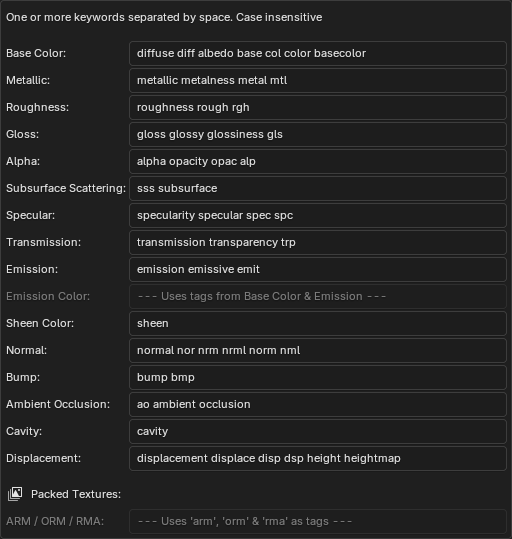
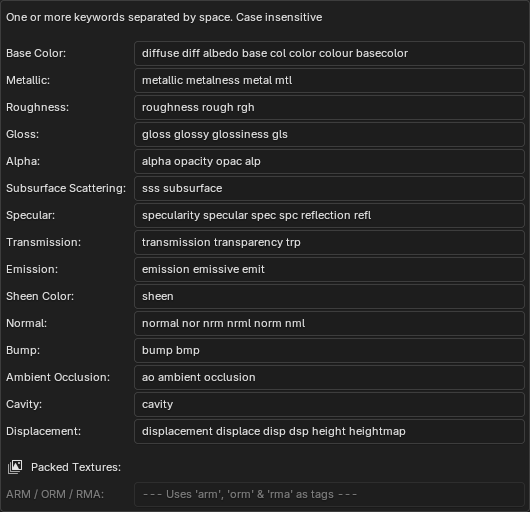
Misc

Changed region(s): [[0.0, 0.0, 1.0, 0.875], [0.3125, 0.9375, 0.625, 1.0], [0.0, 0.9062, 0.25, 1.0]]

diff --git a/docs/index.md b/docs/index.md
@@ -16,7 +16,7 @@ Welcome to BatchGenie, an add-on designed to simplify and automate common Asset 
 - **Texture Import**:
     - Blazingly fast imports.
     - Supports both Metallic/Roughness and Specular/Glossiness workflow.
-    - Supports for 16+ types of maps: Albedo, Metallic, Roughness, Gloss, Alpha, Subsurface Scattering, Specular, Transmission, Emission, Emission Color, Sheen Color, Normal, Bump, Ambient Occlusion, Cavity, Displacement, and PACKED & CUSTOM types.
+    - Supports for 16+ types of maps: Albedo, Metallic, Roughness, Gloss, Alpha, Subsurface Scattering, Specular, Transmission, Emission, Sheen Color, Normal, Bump, Ambient Occlusion, Cavity, Displacement, and PACKED & CUSTOM types.
         - Packed: ARM/ORM/RMA textures that combine AO, Roughness, and Metallic maps.
         - Custom: Import any map and connect it to your chosen input via a dropdown menu.
     - Automatically sets up all necessary nodes, including color space adjustments and other configurations for a smooth workflow without manual intervention. This includes detecting normal map format and adding conversion nodes if needed, as well as auto-detecting the alpha channel from the Albedo texture to use its alpha channel if available.

diff --git a/docs/utilities.md b/docs/utilities.md
@@ -457,7 +457,7 @@ This feature works with both internal and external Assets, so you don't have to 
 
 Combine or split existing tags on Assets. It merges single-word tags into a single line, separated by commas (e.g., "tag1, tag2, tag3"), only if they don't contain spaces.
 
-The split function reverses this, separating combined tags that follow the exact "tag1, tag2, tag3" format. Tags with spaces, like "Long tag with spaces," are unaffected by either function.
+The split function reverses this, separating combined tags that follow the exact "tag1, tag2, tag3" format. Tags with spaces, like "Long tag with spaces" are unaffected by either function.
 
 <div style="clear:both"></div>
 
